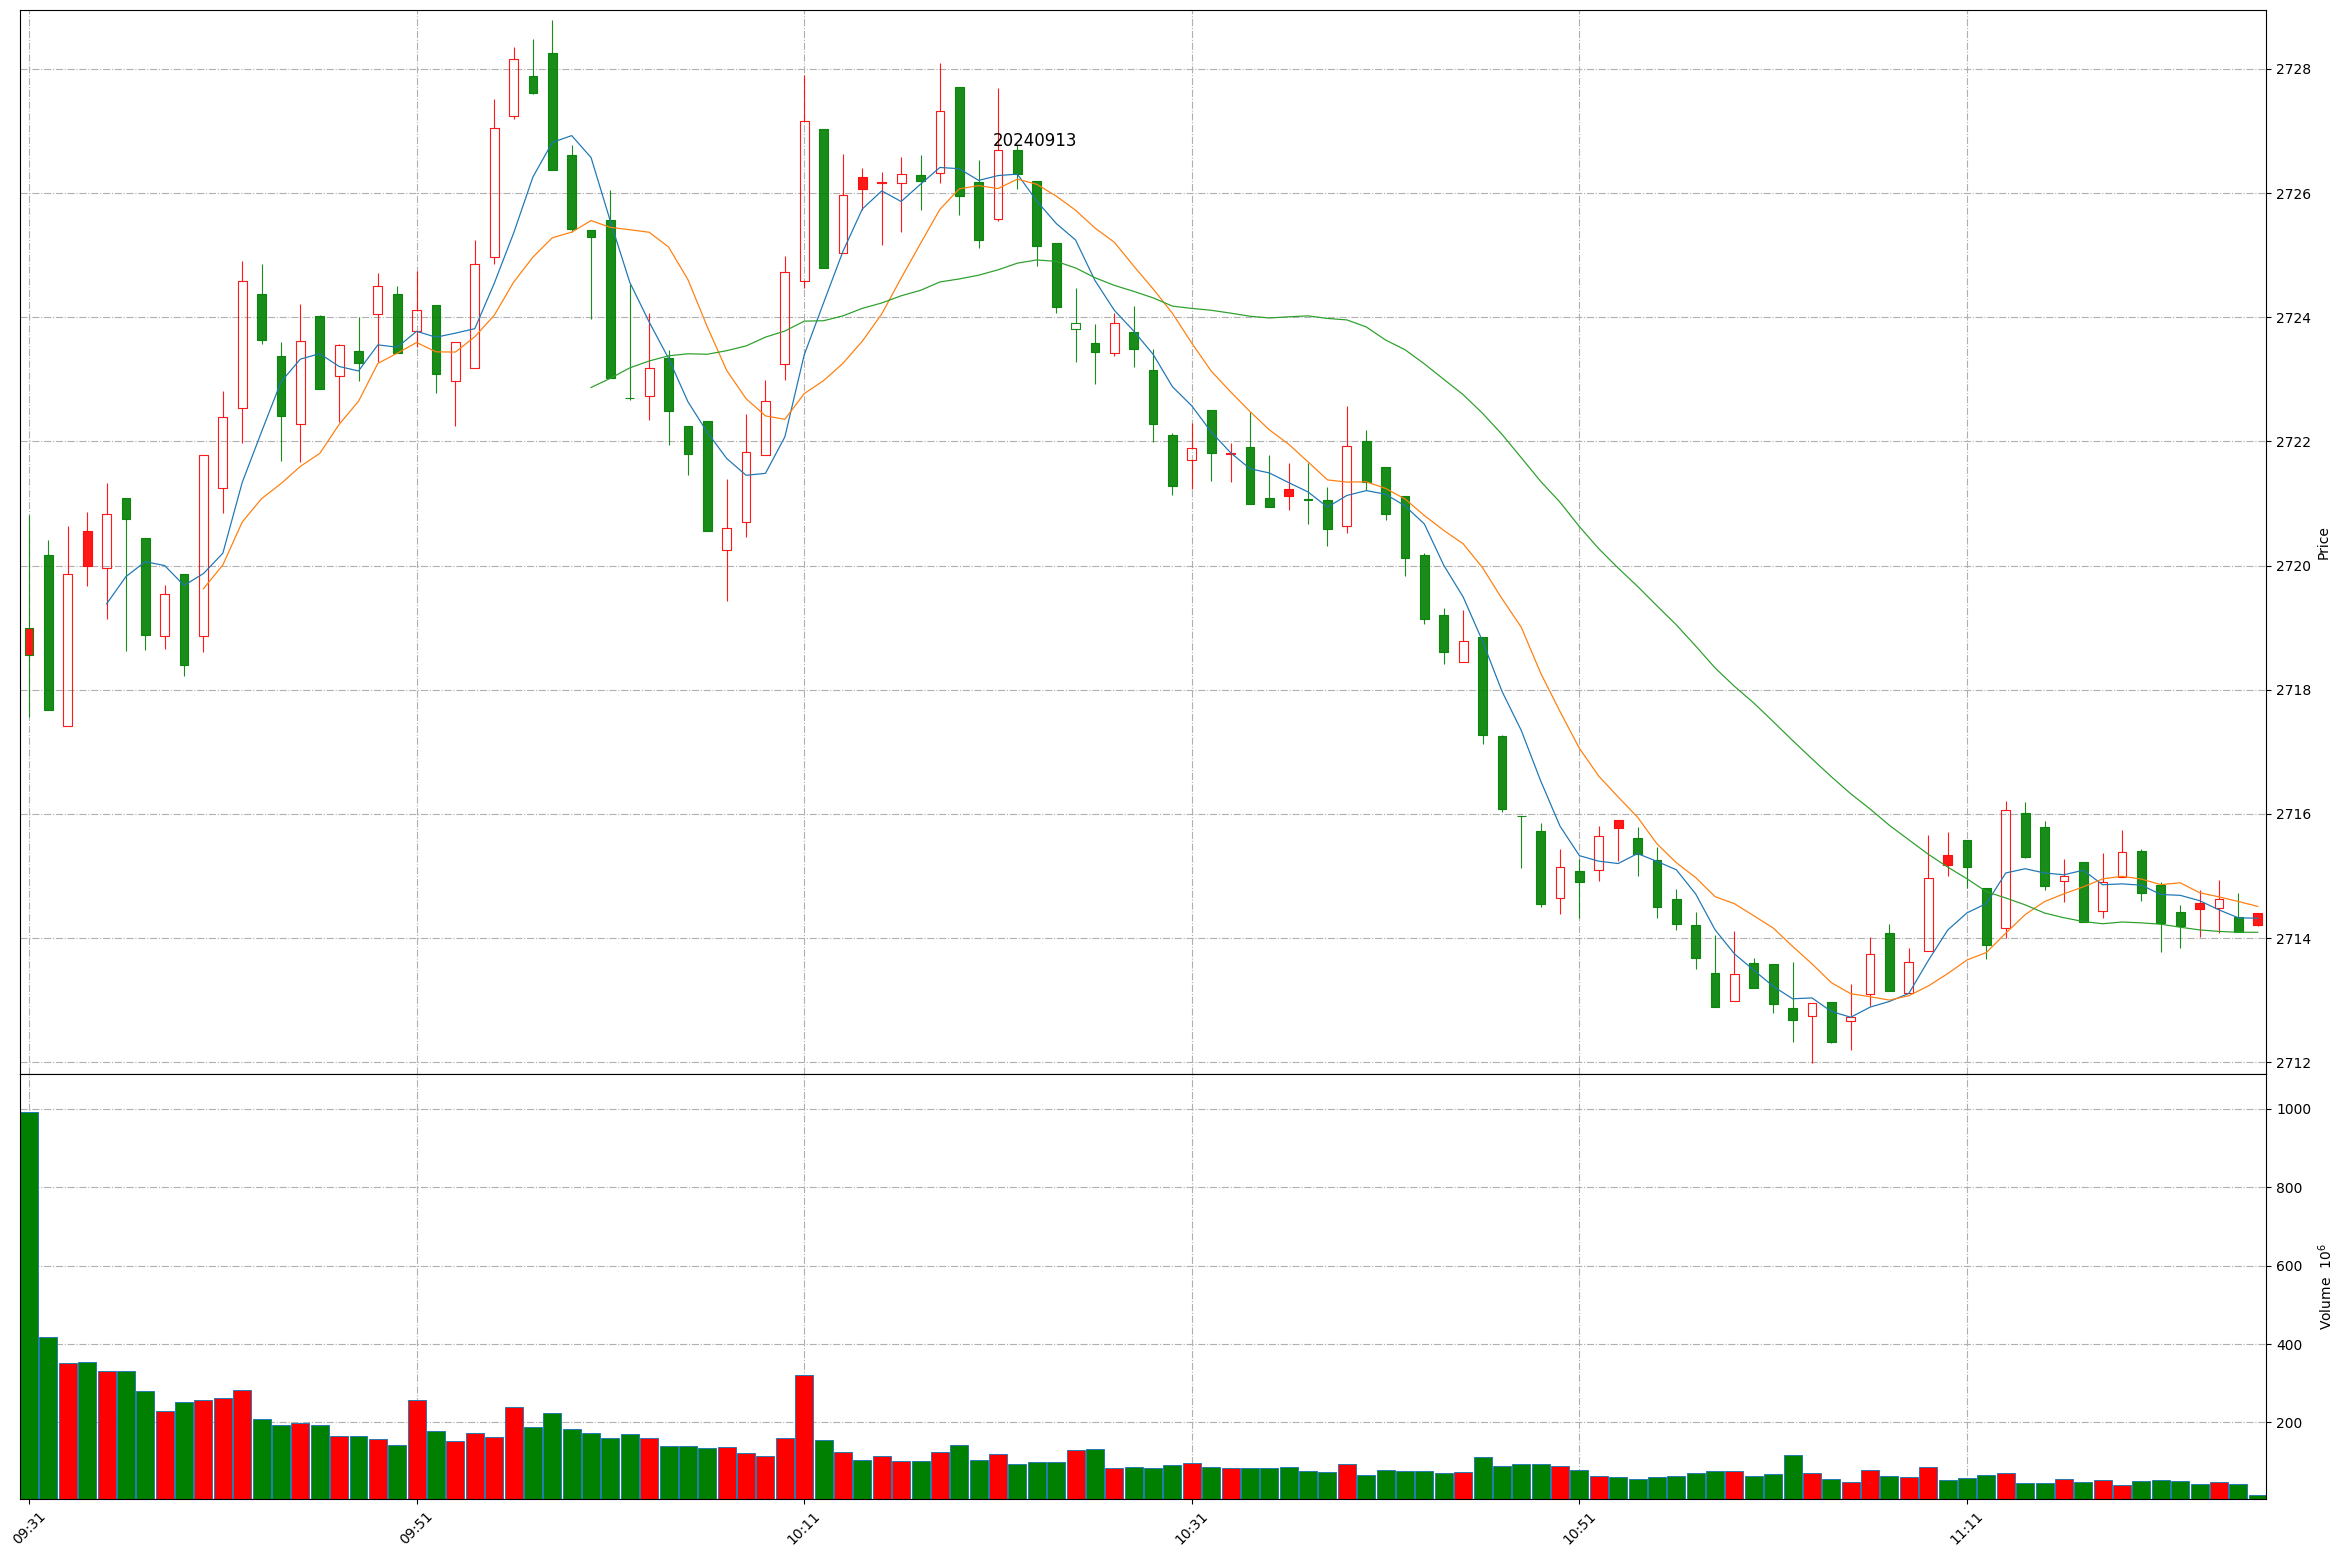
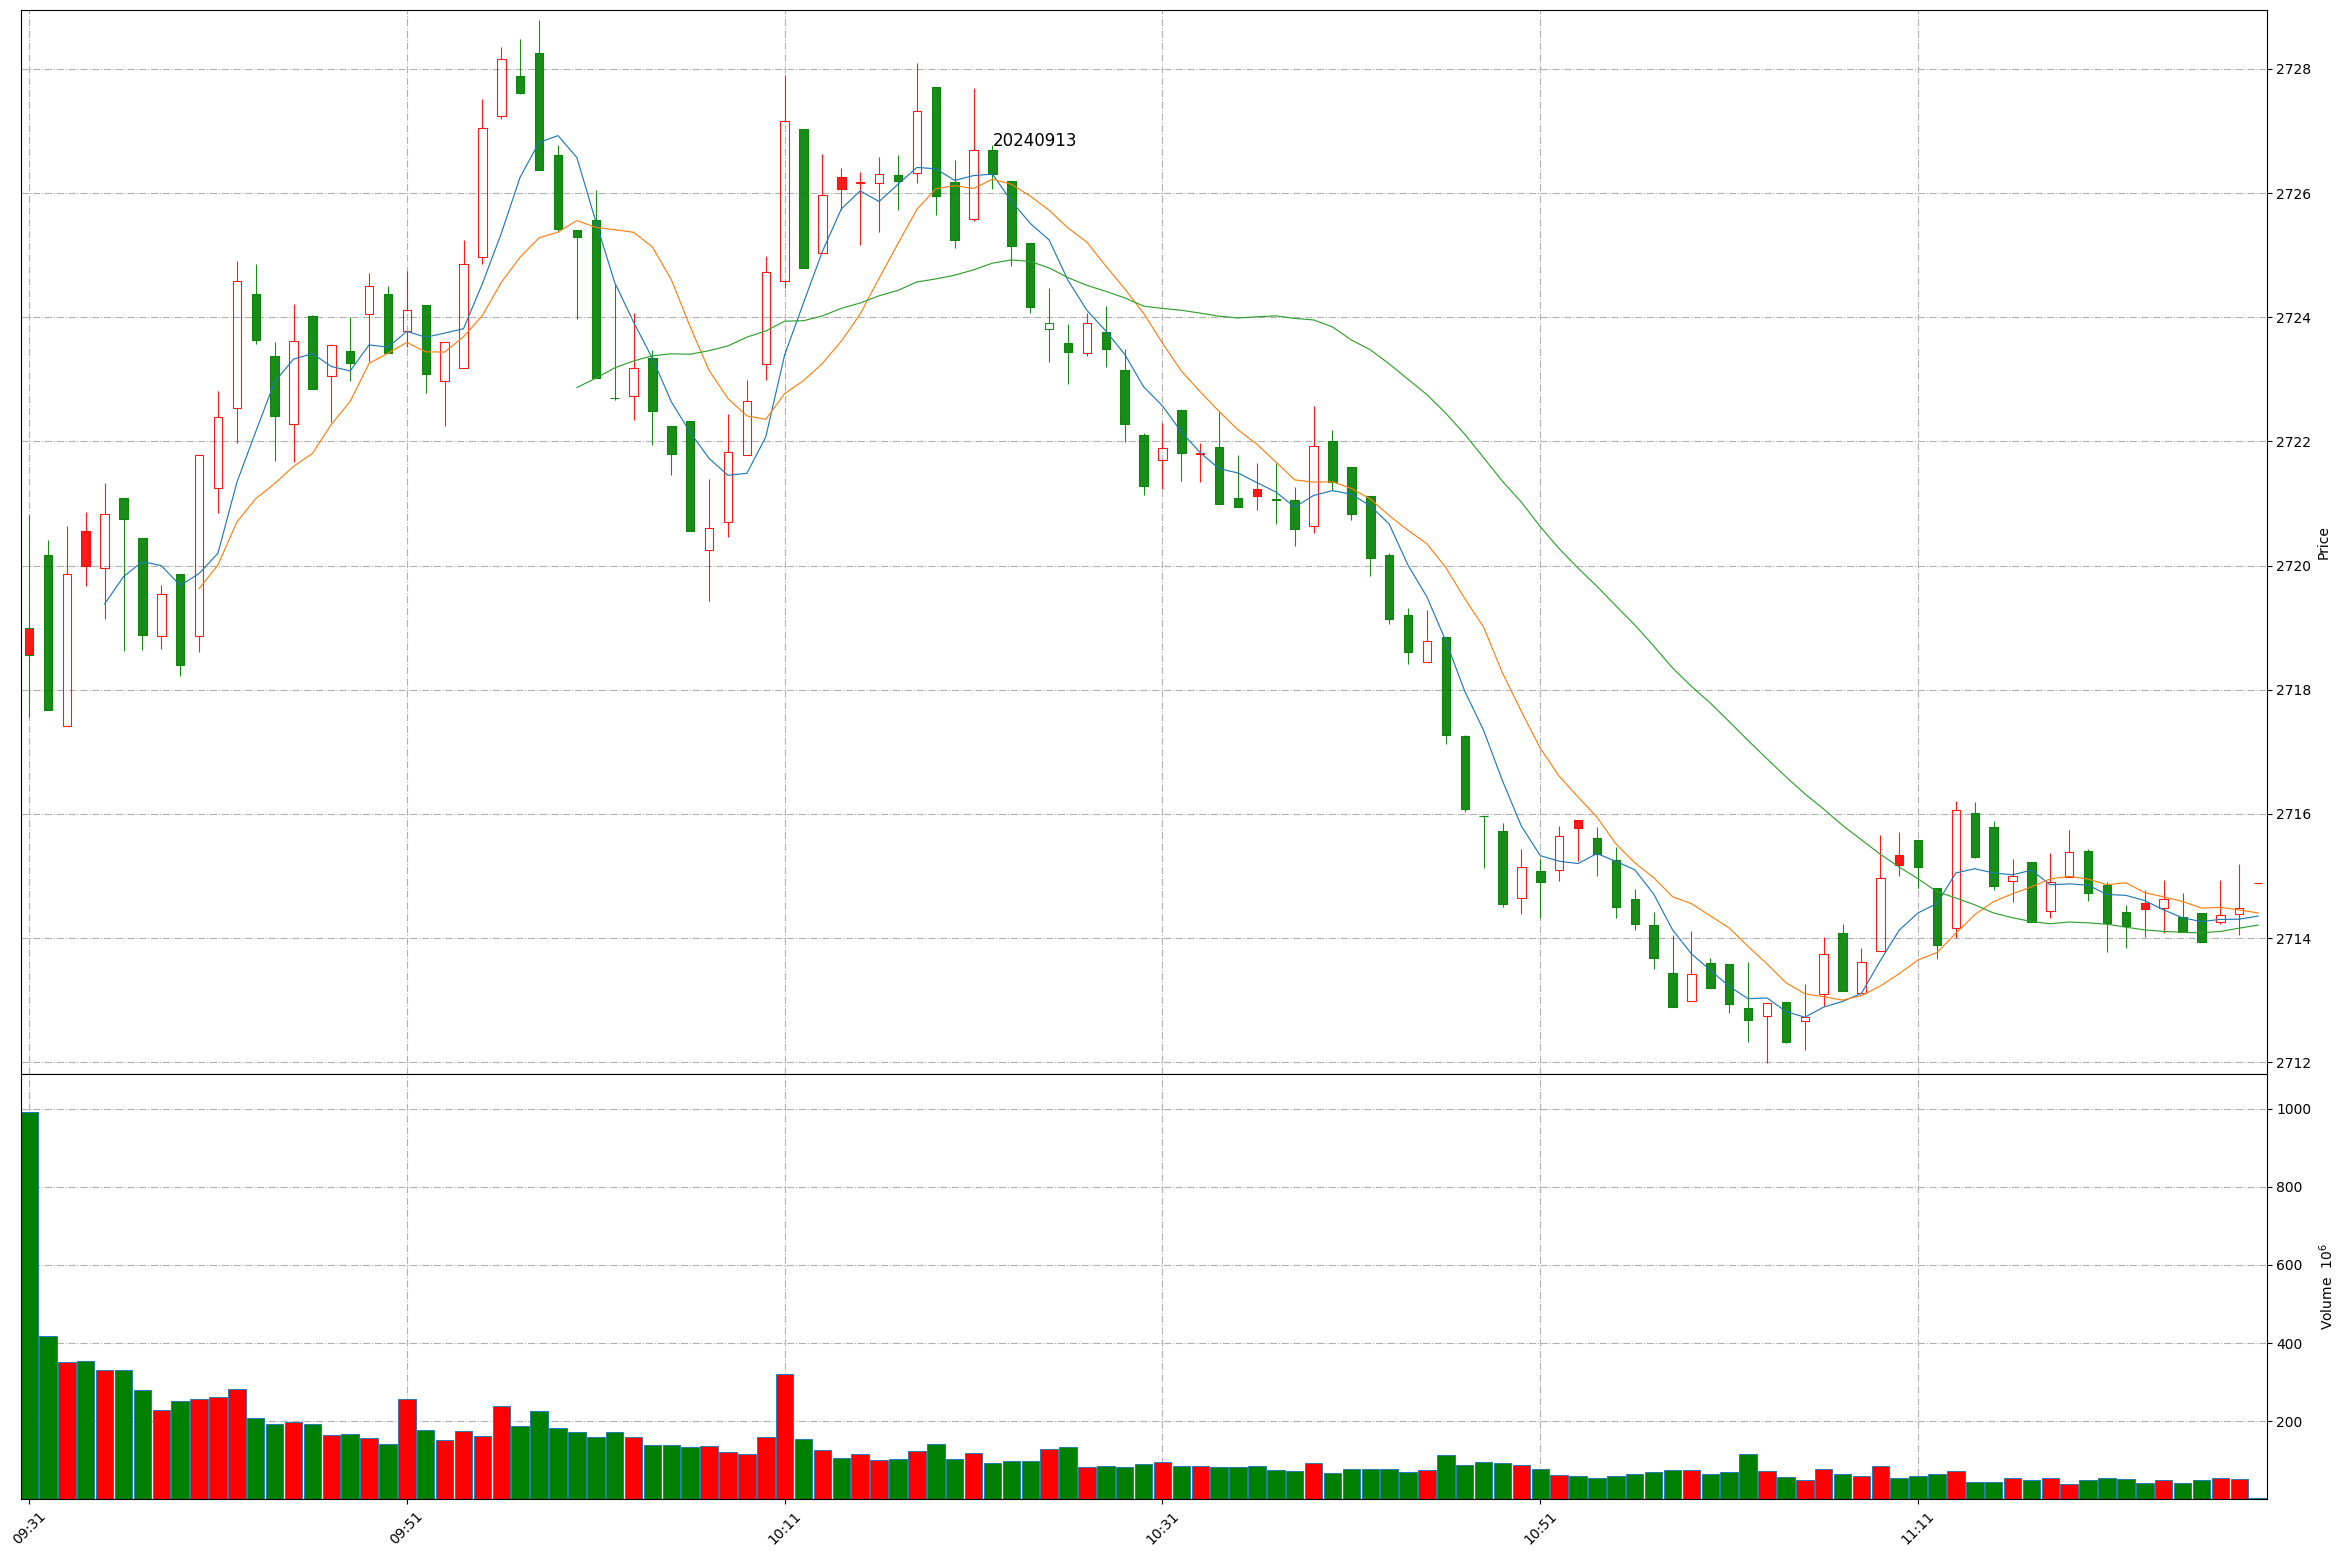
Github action update at 2024-09-13 11:28:26.

diff --git a/README.md b/README.md
@@ -1,11 +1,11 @@
 
 # Daily-A-share-market-quotes 每日 A 股指数（5min 更新）- 20240913
 
-### 上证指数 20240913 11:25
+### 上证指数 20240913 11:28
 ![](./fig/2024/9/20240913-sh000001.png)
 
-### 深证成指 20240913 11:25
+### 深证成指 20240913 11:28
 ![](./fig/2024/9/20240913-sz399001.png)
 
-### 北证50 20240913 11:25
+### 北证50 20240913 11:28
 ![](./fig/2024/9/20240913-bj899050.png)
